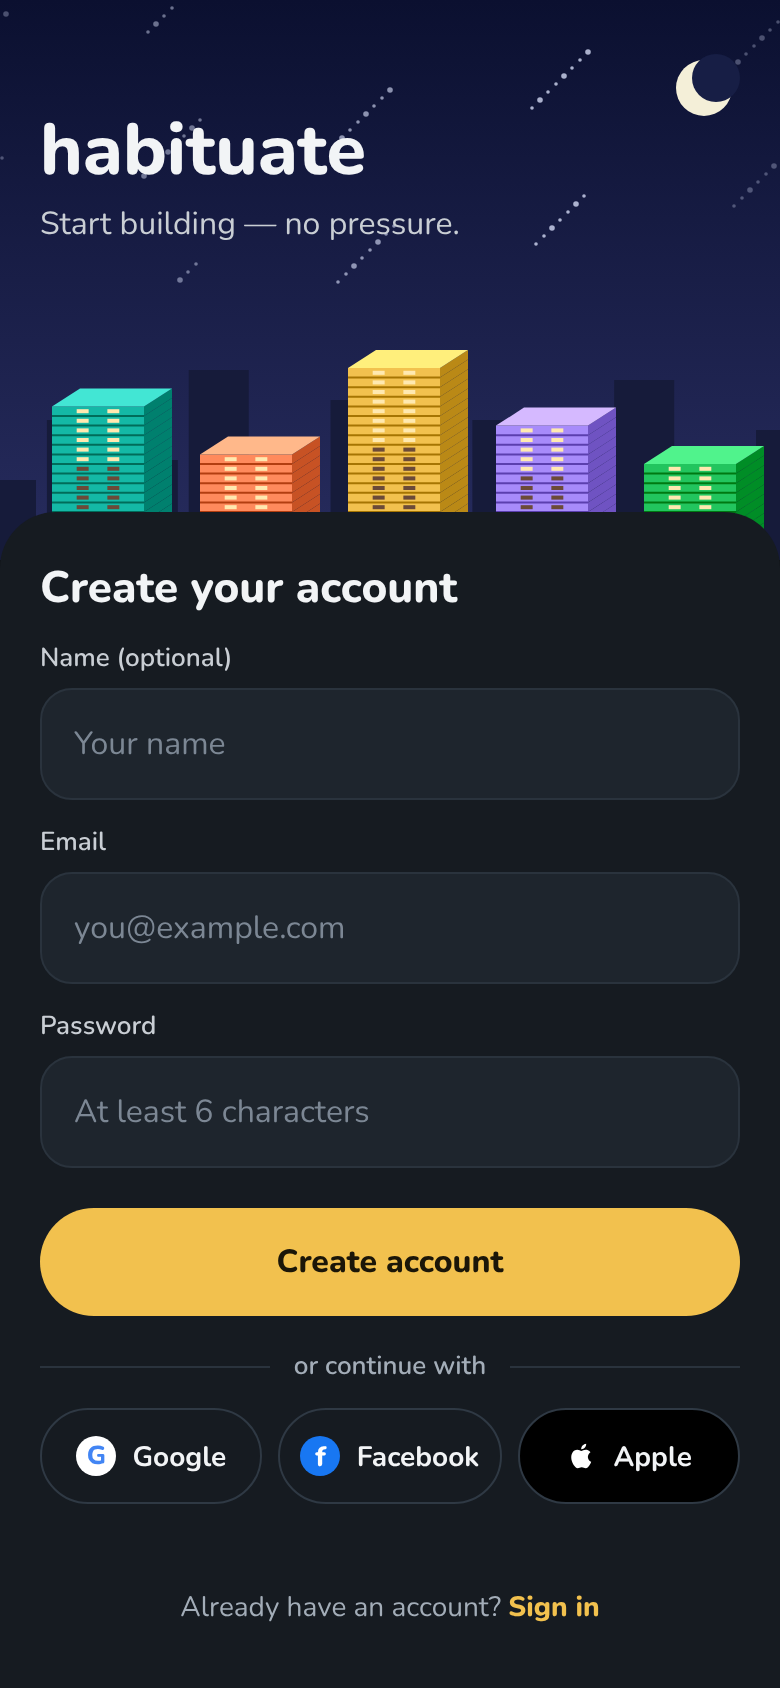
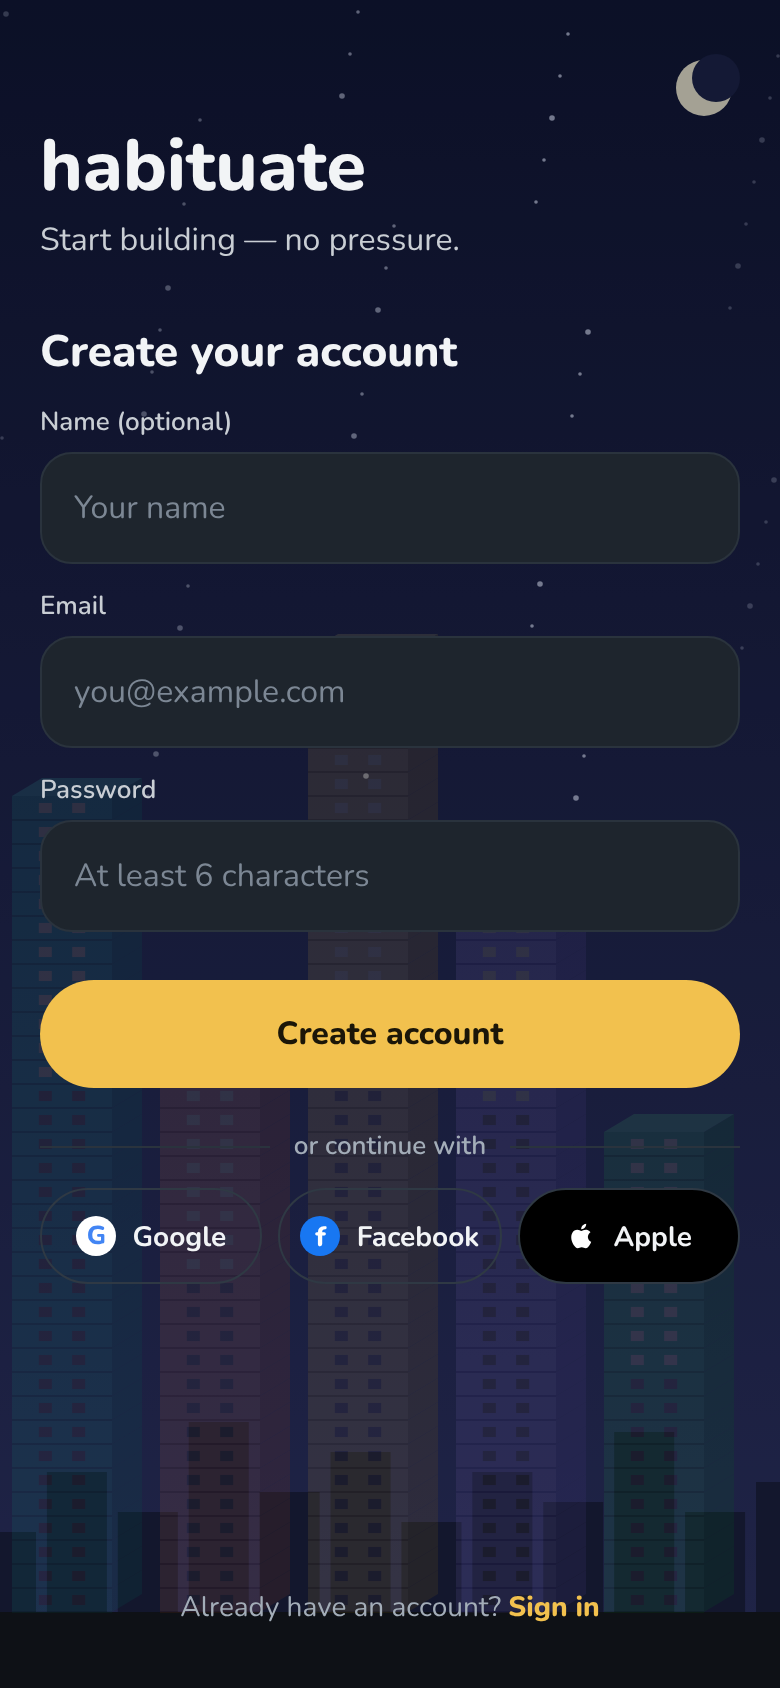
Login and create account v3: faded skyline background
Claude-Session: https://claude.ai/code/session_01UvWD32uMFJU1E2B9jDYiLg

diff --git a/design/skyline/source/rd.js b/design/skyline/source/rd.js
@@ -139,12 +139,14 @@ if(S==='rd-li'||S==='rd-su'){const su=S==='rd-su';const HH=su?280:352;
  const g=`<i style="width:20px;height:20px;border-radius:10px;background:#fff;color:#4285F4;font-size:13px;font-weight:800;display:flex;align-items:center;justify-content:center;font-style:normal">G</i>`,f=`<i style="width:20px;height:20px;border-radius:10px;background:#1877F2;color:#fff;font-size:14px;font-weight:800;display:flex;align-items:center;justify-content:center;font-style:normal">f</i>`,ap=`<svg width="16" height="16" viewBox="0 0 24 24" fill="#fff"><path d="M16.4 12.6c0-2.3 1.9-3.4 2-3.5-1.1-1.6-2.8-1.8-3.4-1.8-1.4-.1-2.8.9-3.5.9s-1.8-.8-3-.8c-1.5 0-3 .9-3.8 2.3-1.6 2.8-.4 6.9 1.2 9.2.8 1.1 1.7 2.3 2.9 2.3 1.2 0 1.6-.7 3-.7s1.8.7 3 .7c1.3 0 2.1-1.1 2.8-2.2.9-1.3 1.3-2.5 1.3-2.6-.1 0-2.5-1-2.5-3.8ZM14.2 5.7c.6-.8 1.1-1.8.9-2.9-.9 0-2 .6-2.7 1.4-.6.7-1.1 1.8-1 2.8 1 .1 2-.5 2.8-1.3Z"/></svg>`;
  const face=`<svg width="20" height="20" viewBox="0 0 24 24" fill="none" stroke="#F2C14E" stroke-width="2" stroke-linecap="round"><path d="M4 8V5a1 1 0 0 1 1-1h3M16 4h3a1 1 0 0 1 1 1v3M20 16v3a1 1 0 0 1-1 1h-3M8 20H5a1 1 0 0 1-1-1v-3M9 10v2M15 10v2M9 16c1.5 1 4.5 1 6 0"/></svg>`;
  const sky=skyArt('night',390,HH+30,HH).replace(/<circle[^>]*fill="#F4EFD8"[^>]*\/>/,'<circle cx="352" cy="44" r="14" fill="#F4EFD8"/>').replace(/<circle[^>]*fill="#171E45"[^>]*\/>/,'<circle cx="358" cy="39" r="12" fill="#171E45"/>');
- R.innerHTML=`<div style="position:absolute;inset:0;overflow:hidden;background:#0F1216"><svg width="390" height="${HH+30}" style="position:absolute;top:0;left:0">${sky}${T.map(([c,n,l,x])=>tw(c,{x,base:HH,w:46,fh:su?4.8:5.4,dx:14,dy:9,floors:fl(n,l),windows:2,today:false})).join('')}</svg>
- <div style="position:absolute;left:20px;right:20px;top:${su?56:72}px"><div style="font-size:36px;line-height:40px;font-weight:800">habituate</div><div style="font-size:16px;line-height:24px;color:#C9CED4;margin-top:4px">${su?'Start building — no pressure.':'Build habits that stick — together.'}</div></div>
- <div style="position:absolute;top:${HH-24}px;left:0;right:0;bottom:0;background:#161B21;border-radius:28px 28px 0 0;padding:0 20px 30px;display:flex;flex-direction:column"><div style="font-size:22px;line-height:28px;font-weight:800;margin-top:24px">${su?'Create your account':'Welcome back'}</div>
+ const TB=su?[['#14B8A6',34,12,6],['#FF8A5C',24,10,80],['#F2C14E',40,14,154],['#A78BFA',30,9,228],['#22C55E',20,10,302]]:[['#14B8A6',34,12,6],['#FF8A5C',24,10,80],['#F2C14E',40,14,154],['#A78BFA',30,9,228],['#22C55E',20,10,302]];
+ R.innerHTML=`<div style="position:absolute;inset:0;overflow:hidden;background:#0F1216"><svg width="390" height="844" style="position:absolute;top:0;left:0">${skyArt('night',390,844,806).replace(/<circle[^>]*fill="#F4EFD8"[^>]*\/>/,'<circle cx="352" cy="44" r="14" fill="#F4EFD8"/>').replace(/<circle[^>]*fill="#171E45"[^>]*\/>/,'<circle cx="358" cy="39" r="12" fill="#171E45"/>')}<g opacity=".16">${TB.map(([c,n,l,x])=>tw(c,{x,base:806,w:50,fh:12,dx:15,dy:9,floors:fl(n,l),windows:2,today:false})).join('')}</g><rect width="390" height="844" fill="#0F1216" opacity=".35"/></svg>
+ <div style="position:absolute;left:20px;right:20px;top:64px"><div style="font-size:36px;line-height:40px;font-weight:800">habituate</div><div style="font-size:16px;line-height:24px;color:#C9CED4;margin-top:4px">${su?'Start building — no pressure.':'Build habits that stick — together.'}</div></div>
+ <div style="position:absolute;top:150px;left:0;right:0;bottom:0;padding:0 20px 30px;display:flex;flex-direction:column">
+ <div style="font-size:22px;line-height:28px;font-weight:800;margin-top:12px">${su?'Create your account':'Welcome back'}</div>
  ${su?fld('Name (optional)','Your name')+fld('Email','you@example.com')+fld('Password','At least 6 characters'):fld('Username or email','yourname or you@example.com')+fld('Password','••••••••')}
- <div style="margin-top:20px;height:54px;border-radius:27px;background:#F2C14E;color:#1b1608;font-size:16px;font-weight:800;display:flex;align-items:center;justify-content:center">${su?'Create account':'Sign in'}</div>
- <div style="display:flex;align-items:center;gap:12px;margin-top:16px;color:#A3ADB8;font-size:13px;font-weight:600"><i style="flex:1;height:1px;background:#2A333D;display:block"></i>or continue with<i style="flex:1;height:1px;background:#2A333D;display:block"></i></div>
+ <div style="margin-top:24px;height:54px;border-radius:27px;background:#F2C14E;color:#1b1608;font-size:16px;font-weight:800;display:flex;align-items:center;justify-content:center">${su?'Create account':'Sign in'}</div>
+ <div style="display:flex;align-items:center;gap:12px;margin-top:20px;color:#A3ADB8;font-size:13px;font-weight:600"><i style="flex:1;height:1px;background:#2A333D;display:block"></i>or continue with<i style="flex:1;height:1px;background:#2A333D;display:block"></i></div>
  <div style="display:flex;gap:8px;margin-top:12px">${pill(g,'Google')}${pill(f,'Facebook')}${pill(ap,'Apple','background:#000;border-color:#2F3944')}</div>
  ${su?'':`<div style="height:48px;display:flex;align-items:center;justify-content:center;gap:8px;font-size:14px;font-weight:700;color:#F2C14E;margin-top:8px">${face}Sign in with Face ID</div>`}
  <div style="text-align:center;font-size:14px;line-height:20px;color:#A3ADB8;margin-top:auto;padding-top:12px">${su?'Already have an account? ':'New here? '}<b style="color:#F2C14E;font-weight:800">${su?'Sign in':'Create an account'}</b></div></div></div>`;}

diff --git a/design/skyline/README.md b/design/skyline/README.md
@@ -151,3 +151,5 @@ Free caps: 5 daily, 1 weekly, 1 monthly, 2 Shield Days. Ask Habituate is not par
 Same fields, order and actions as today's LoginScreen and SignupScreen; only the look changes. Third-party buttons follow each provider's brand rules in the build.
 
 **Login v2 (2026-11-25), full-screen layout (no sheet handle, footer pinned to the bottom):** redrawn to the design system after the owner said v1 was not good. Hero wordmark 36/800 and tagline 16/400 (message), sheet title 22/800, labels 13/600, inputs 56 radius 16, Sign in 54, three equal 48 pills for Google, Facebook and Apple under "or continue with", Face ID as a compact link, footer 14. Towers sit clear of the text. Awaiting the owner's approval.
+
+**Login v3 (2026-11-25):** the skyline is now a faded full-screen background (about 16% opacity behind a night sky), with no hero block and no card; the form sits directly on the screen and the sign-up link is pinned to the bottom. Awaiting the owner's approval.
